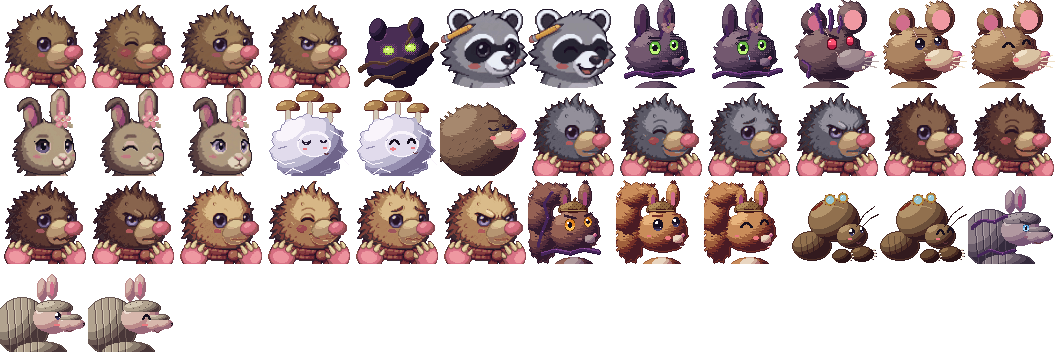
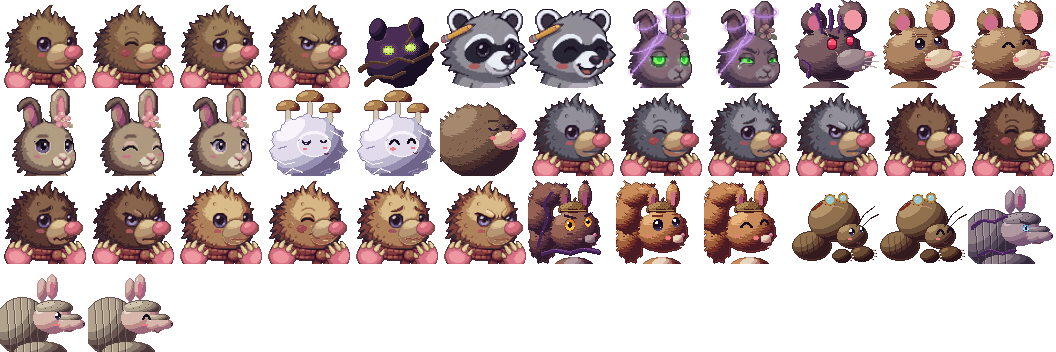
물든 모모 대화 초상화를 나노바나나 그림으로(칸 7~8): 돌아온 모모 그림을 고쳐 그려 같은 틀·자두빛 선. 실이 가늘어 88px에서 사라지고 초록 눈이 흰빛 민트로 나와, 굵은 실·선명한 초록으로 다시 그림(0112)
Claude-Session: https://claude.ai/code/session_01VNXEyeHwdhsn4oiHYXtNpM

Changed region(s): [[0.5938, 0.0, 0.75, 0.25]]

diff --git a/tools/art/ai_portraits.py b/tools/art/ai_portraits.py
@@ -29,9 +29,11 @@ CHARACTERS = {
     # 모모는 귀가 길어 높이로 맞추면 얼굴이 작아진다. 1보다 크게 잡아 귀 끝을 칸 맨 위에 두고 가슴을 칸 아래로 내보낸다
     # (처음엔 귀 끝을 잘랐는데 거슬렸다, 사장). 1.22에서 얼굴이 Naïl·포포와 비슷하다.
     'momo': (12, ('normal', 'happy', 'worried'), 1.22, 16),
+    # 물든 모모: 돌아온 모모 보통 표정을 고쳐 그려 틀이 1px까지 같다 → 같은 틀. 보라 실은 눈 팔레트(보랏빛) 칸을, 초록 눈은 채도 칸을 쓴다.
+    'momo_tainted': (7, ('normal', 'pained'), 1.22, 16),
 }
 # 크림색 가슴이 원본 아래 끝에 닿는 캐릭터: 배경 지우기를 아래 끝에서 시작하지 않는다(_character_mask).
-CHEST_AT_BOTTOM = {'momo'}
+CHEST_AT_BOTTOM = {'momo', 'momo_tainted'}
 # 틀 맞출 때 가슴 아래를 칸 밖으로 보내는 몫(잘린 가슴 = Naïl의 칸 밖으로 나간 앞발과 같은 틀).
 FIT_CUT = 0.02
 # 틀이 1보다 클 때 귀 끝 위에 남길 여백 몫.
@@ -114,7 +116,7 @@ FIXES = {
     'nail_determined': lambda img: _eyes_to_lavender(
         img, [((226, 250, 284, 288), 272), ((400, 244, 430, 266), 258)]),
 }
-for _face in ('normal', 'happy', 'worried'):
+for _face in ('normal', 'happy', 'worried', 'tainted_normal', 'tainted_pained'):
     FIXES[f'momo_{_face}'] = lambda img: _plum_lines(img, MOMO_EYES)
 
 

diff --git a/docs/phase-1-combat-prototype.md b/docs/phase-1-combat-prototype.md
@@ -124,7 +124,7 @@
 | 잠긴 문(0094·0096~0099) | `render.rs`(draw_root_gate·빛 패스), `sunny.rs`(FENCE_H·FENCE_V), `room.rs`(door_anim·tick_doors), `world.rs`(열릴 때 실 풀림) | 팩 나무 울타리 두 겹(가운데 칸만: 남북 39,2 · 동서 40,3, 가로대가 벽에서 벽까지, 팩이 없으면 물든 뿌리) + 가로대를 감는 보라 실, 0.35초에 솟아 닫히고 0.5초에 가라앉으며 실이 풀린다, 어둠 속에서도 실이 빛남 |
 | 어둠 지도·야광버섯·그림자(0095·0100) | `render.rs`(dark_rt·cut_material·light_sources·draw_cast_shadows·draw_mushrooms), `art.rs`(light), `biome.rs` | 빛 자리마다 어둠을 빼는 렌더 타깃, 버섯 빛 64px·세기 0.28(은은하게 넓게), 심층 버섯 14%·뿌리 지대 4%, 빛 반대쪽으로 눕는 그림자 |
 | 해·모닥불 그림자(0102~0106, 시험) | `render.rs`(draw_sun_shadows·shadow_dir·sun_shear·silhouette_material, draw_sorted의 sun), `sunny.rs`(stamp_sun_shadow), `terrain.rs`(Baker::fires), `tuning.rs`(SUN_SHADOW_*·FIRE_SHADOW_*·DECOR_LIFT_*) | 서 있는 것의 모양을 발 줄 축으로 눕혀 렌더 타깃에 모아 한 번에 얹는다. 밝은 곳은 해(오른쪽 아래), 모닥불 곁은 불 바깥쪽(150px, 멀수록 길게, 불이 아래면 더 길게 0104, 어두운 곳은 바깥으로 옅게). 모닥불 돌은 돌만 키운 모양(뒤쪽은 짧게, 0105). 그림자 패스는 몸만(빛·표시·반투명·바닥 것 제외, 밝은 곳은 타원 그림자 끔, 0106). 구운 꽃·조약돌·풀포기는 높이 비율만큼 짧게 |
-| Naïl·포포·돌아온 모모 초상화 나노바나나(0107~0110) | `tools/art/sources/ai/nail_*.png`, `tools/art/ai_portraits.py`, `tools/art/portraits.py`(sheet), `docs/art/nano-banana-prompts.md` | 표정 넷 원본 → 로고 지우기·결의 눈 색·배경 투명·88×88·한 팔레트(눈 8색 따로)·털빛 셋(주둥이·발톱은 자리로 지킴). 포포: 틀 맞추기(높이 92%)·채도 높은 색 따로. 모모: 검은 선 → 자두빛, 틀 1.22(귀 끝을 칸 맨 위에, 가슴을 칸 아래로), 가슴이 지워지지 않게 아래 끝 번지기 끔. 다른 캐릭터는 다음 차례 |
+| Naïl·포포·모모(돌아옴·물듦) 초상화 나노바나나(0107~0112) | `tools/art/sources/ai/nail_*.png`, `tools/art/ai_portraits.py`, `tools/art/portraits.py`(sheet), `docs/art/nano-banana-prompts.md` | 표정 넷 원본 → 로고 지우기·결의 눈 색·배경 투명·88×88·한 팔레트(눈 8색 따로)·털빛 셋(주둥이·발톱은 자리로 지킴). 포포: 틀 맞추기(높이 92%)·채도 높은 색 따로. 모모: 검은 선 → 자두빛, 틀 1.22(귀 끝을 칸 맨 위에, 가슴을 칸 아래로), 가슴이 지워지지 않게 아래 끝 번지기 끔. 물든 모모: 같은 틀, 실은 굵게·위로, 눈은 선명한 초록으로 고쳐 그림. 다른 캐릭터는 다음 차례 |
 | 웨이브 | `world.rs`, `scenario.rs` | 지금은 개발 시나리오(아레나·웨이브 3부터)에서만. 적을 다 잡으면 1.2초 뒤 다음 웨이브(1C+1S → 2C+1S → 2C+2S → 3C+2S). 명세엔 없지만 5분 플레이 판정을 위해 넣음 |
 
 확인한 것: 데스크톱(Xvfb) 실행 캡처로 렌더 방향·공격 반원·굴파기·히트박스 표시, 헤드리스 Chromium으로 웹 빌드 로드·입력·콘솔(mismatch 없음). 확인 못 한 것: 실제 손맛(판정 1~4), 실기 게임패드, 소리의 실제 느낌(컨테이너에 오디오 장치 없음).

diff --git a/assets/LICENSES.md b/assets/LICENSES.md
@@ -8,7 +8,7 @@
 | `fonts/OFL-ArkPixel.txt` | Ark Pixel 레포 `LICENSE-OFL` | — | Ark Pixel의 OFL 원문. 일본어·간체 폰트와 함께 배포 |
 | `art/nail.png` | 직접 그림. 원본 `tools/art/nail.py` | © 2026 Beardworks | Naïl 스프라이트 v2(idle·walk·attack·hurt·dead·흙더미·그림자 + 흰 실루엣) |
 | `art/nail_fur1~3.png` | 직접 그림. 원본 `tools/art/nail.py`(털 색만 바꿈) | © 2026 Beardworks | 털빛 잿빛·밤빛·모래빛(저널 보상, docs/decisions/0048) |
-| `art/portraits.png` | 직접 그림. 원본 `tools/art/portraits.py`. **Naïl 칸 0~3·18~29, 포포 칸 5~6, 돌아온 모모 칸 12~14**는 나노바나나(Google Gemini 이미지 모델)로 사장이 그린 원본 `tools/art/sources/ai/*.png`를 `tools/art/ai_portraits.py`가 칸으로 만든 것(2026-10-26, docs/decisions/0108·0109·0110). 참고 그림은 직접 그린 초상화만 넣었다(팩 그림 없음, 0064). 모든 생성 그림에 SynthID 워터마크가 들어 있다 | © 2026 Beardworks | 대화창 초상화 88×88, 한 줄 12칸(Naïl 털빛 3 × 표정 4 포함, Naïl 표정 4 + 이웃 그림자 + 라쿤 포포 2 + 물든 모모 2 + 들쥐 대장·보리 3 + 돌아온 모모 3 + 누룩 할매 2 + 엄마 두더지 1 + 도토 3 + 수수 2 + 콩이 3) |
+| `art/portraits.png` | 직접 그림. 원본 `tools/art/portraits.py`. **Naïl 칸 0~3·18~29, 포포 칸 5~6, 물든 모모 칸 7~8, 돌아온 모모 칸 12~14**는 나노바나나(Google Gemini 이미지 모델)로 사장이 그린 원본 `tools/art/sources/ai/*.png`를 `tools/art/ai_portraits.py`가 칸으로 만든 것(2026-10-26, docs/decisions/0108·0109·0110·0112). 참고 그림은 직접 그린 초상화만 넣었다(팩 그림 없음, 0064). 모든 생성 그림에 SynthID 워터마크가 들어 있다 | © 2026 Beardworks | 대화창 초상화 88×88, 한 줄 12칸(Naïl 털빛 3 × 표정 4 포함, Naïl 표정 4 + 이웃 그림자 + 라쿤 포포 2 + 물든 모모 2 + 들쥐 대장·보리 3 + 돌아온 모모 3 + 누룩 할매 2 + 엄마 두더지 1 + 도토 3 + 수수 2 + 콩이 3) |
 | `art/critters.png` | 직접 그림. 원본 `tools/art/critters.py` | © 2026 Beardworks | 적(물든 들쥐·생쥐·시궁쥐·다람쥐·청설모)·허수아비·라쿤 포포·물든 모모·돌아온 모모·도토·돌아온 도토·수수·콩이·돌아온 콩이 16×16 + 흰 실루엣. v2 손으로 찍은 자세 |
 | `art/chief.png` | 직접 그림. 원본 `tools/art/chief.py` | © 2026 Beardworks | 튜토리얼 보스 들쥐 대장(물든 모습 8칸)·돌아온 보리(5칸) 32×32 + 흰 실루엣 |
 | `art/illust/*.png`(타이틀 바탕 `title.png`·`title_fog.png` 포함, 0083 — 타이틀은 바탕 그림 없이 코드로만) | 직접 그림(임시). 원본 `tools/art/illust.py` | © 2026 Beardworks(molehill·great_tree·last_bloom·mother_burrow·bori_freed·momo_bloom 바탕은 아래 그림들, CC0·퍼블릭 도메인) | 컷씬 일러스트 9장 640×360(2배 밀도, 일부는 패닝용으로 더 큼). 사람이 그린 그림으로 바꾸면 이 행을 작가·계약으로 고친다(docs/art/cutscene-illustrations.md) |

diff --git a/docs/art/nano-banana-prompts.md b/docs/art/nano-banana-prompts.md
@@ -40,6 +40,7 @@ Edit the last attached image, the portrait of [이름]. Add only [고칠 것], c
 - **고친 것은 다음 고침에서 되살아날 수 있다**(시험: 귀를 지운 뒤 같은 대화에서 앞발을 더하자 귀가 다시 났다). 대화 안의 앞선 그림(귀 있는 그림)을 모델이 계속 보고, "나머지는 그대로"는 무엇을 고쳤는지 모른다. 그래서 (1) 고친 그림을 저장해 **새 대화**에 그 그림만(필요하면 시트와 함께) 첨부하고, (2) 프롬프트에 **지킬 것을 짚어** 적는다: `Ensure these features of the portrait remain completely unchanged: [고친 점들]`(공식 합성 템플릿의 "Ensure that the features … remain completely unchanged").
 - **다른 캐릭터 초상화를 크기 맞춤용으로 넣으면 생김새까지 따라간다**(시험: 귀 없는 Naïl 초상화를 함께 넣자 포포의 귀가 사라졌다). 그 캐릭터의 시트에서 귀·모자 같은 머리 모양을 다시 가져오게 고친다(첨부: 시트 → 고칠 초상화 순서).
 - **걱정 표정이 거절될 때**("저는 언어 모델일 뿐이라서…"): 부드러운 말로 바꾸고 맨 앞에 `Edit this image.`를 붙인다(`gently concerned look`, 또 거절되면 `thoughtful, slightly unsure look`). Naïl·모모 둘 다 이렇게 됐다.
+- **물든 모습은 돌아온 모습 그림을 고쳐 그린다**(틀이 1px까지 같다). 실은 "선만큼 굵게, 볼·이마·귀 둘레로", 눈은 "반딧불 같은 선명한 초록"으로 적는다. 가는 실은 88px에서 사라지고, "glowing green"만 쓰면 흰빛 민트가 나왔다(0112).
 - 표정이 여럿이면 다음 표정도 **보통 표정 하나만** 첨부한다(기쁨 표정을 고치면 감은 눈이 남기 쉽다).
 - 첫 시험(Naïl 보통 표정): 시트에는 없던 둥근 귀가 생겼다(두더지는 귀가 털 속에 숨는다 → 캐릭터 글에 `no visible ears` 넣기). 가슴 위로 자르니 상징인 분홍 앞발이 빠졌다 → 초상화 프롬프트에 앞발을 넣는다.
 

diff --git a/docs/decisions/0112-tainted-momo-portraits.md b/docs/decisions/0112-tainted-momo-portraits.md
@@ -1,0 +1,19 @@
+# 0112. 물든 모모 대화 초상화(나노바나나): 88px에서 읽히는 실과 빛나는 눈
+
+- 날짜: 2026-10-26
+- 상태: 채택. 0110(돌아온 모모)에 이은 넷째 묶음.
+
+## 결정(`tools/art/ai_portraits.py` `momo_tainted`, `tools/art/sources/ai/momo_tainted_{normal,pained}.png`)
+- 칸 7~8(보통 = 차갑고 멀다, 괴로움 = 반쯤 감은 눈·찌푸린 눈썹·눈물 한 방울).
+- 돌아온 모모 보통 표정 그림을 고쳐 그렸다(털 자두빛 회색·시든 꽃·초록 눈·보라 실). 그래서 캐릭터 영역이 1px까지 같다. 틀(1.22, 귀 끝을 칸 맨 위에), 자두빛 선, 아래 끝 번지기 끔을 돌아온 모모와 똑같이 쓴다.
+- 보라 실은 눈 팔레트(보랏빛 8칸)를, 초록 눈은 채도 칸(16)을 쓴다. 따로 칸을 늘리지 않았다.
+- 실 둘레의 빛 번짐은 어두운 바탕에서 옅은 보랏빛 테두리로 남는다. 빛나는 실로 읽혀 지우지 않는다.
+
+## 함정(첫 그림 → 고쳐 그림)
+- **실이 가늘면 88px에서 사라진다**: 원본의 실(6px쯤)은 칸 한 점(원본 약 12px)보다 가늘어 평균에 묻혔다. 게다가 목·어깨에 감겨 있어 이 틀에서는 칸 아래로 잘렸다. "선만큼 굵게, 볼·이마·귀 둘레로 올려" 다시 그렸다.
+- **"빛나는 초록"이 흰빛에 가까운 민트(178,249,171)로 나왔다**: 줄이면 흐린 연두다. "반딧불 같은 선명한 초록"으로 다시 그렸다.
+- 이야기 신호(실·눈 색)는 원본 크기가 아니라 **줄인 칸에서** 읽히는지 본다.
+
+## 확인
+- 색까지 비교: 커밋된 시트와 다른 칸은 7·8뿐이다.
+- 헤드리스: 개발 → "모모 첫 만남"의 "???" 대화에 새 그림이 나오고, 실과 초록 눈이 또렷하다.
